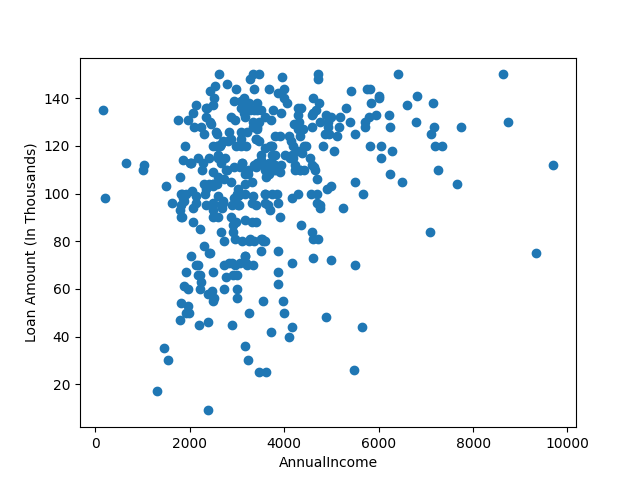
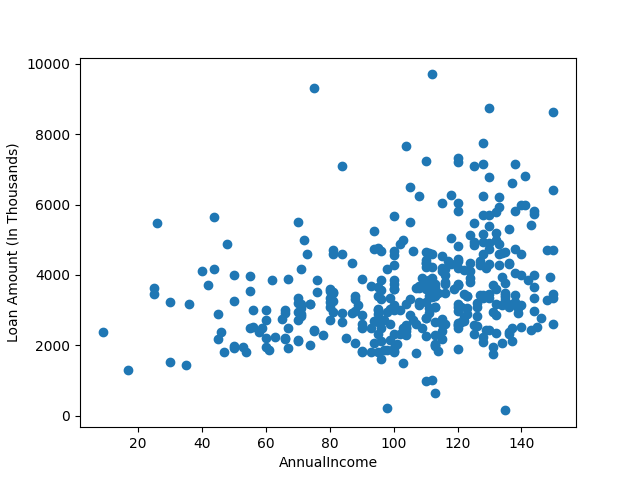
kmeans function

diff --git a/kmc_loans_cluster.py b/kmc_loans_cluster.py
@@ -2,7 +2,10 @@ import pandas
 import numpy
 # import random
 import matplotlib.pyplot as pyplot
+
 from sklearn.cluster import KMeans
+from sklearn.metrics import silhouette_score
+
 
 data = pandas.read_csv('clustering.csv')
 print(data.head())
@@ -13,19 +16,38 @@ print(data.columns)
 subset = data[["LoanAmount","ApplicantIncome"]]
 subset = subset.values
 
-# DATA VISUALIZATION:
-pyplot.scatter(subset["ApplicantIncome"],subset["LoanAmount"])
+# # DATA VISUALIZATION:
+pyplot.scatter(subset[:,0],subset[:,1])
 pyplot.xlabel('AnnualIncome')
 pyplot.ylabel('Loan Amount (In Thousands)')
 pyplot.savefig("scatter_loanamount_applicantincome.png")
 pyplot.close()
 
+def run_kmeans(n, data):
+	machine = KMeans(n_clusters = n) # Constructing the machine
+	machine.fit(subset) # fitting the data
+	results = machine.predict(subset) # predicting
 
-machine = KMeans(n_clusters = 2) # Constructing the machine
-machine.fit(subset) # fitting the data
-results = machine.predict(subset) # predicting
+	centroids = machine.cluster_centers_
+	ssd = machine.inertia_ #sum of square deviations
+	
+	silhouette = 0
+	if n>1:
+		silhouette = silhouette_score(data, machine.labels_, metric = 'euclidean')
 
-centroids = machine.cluster_centers_
+	pyplot.scatter(data[:,0], data[:,1], c = results) # row, column (all rows, first column)
+	pyplot.scatter(centroids[:,0], centroids[:,1], c='red', marker= "*", s=200)
+	pyplot.savefig("scatterplot_colors_"+ str(n) + ".png") # no need for this if using Jupyter Notebook
+	pyplot.close()
+
+	return ssd, silhouette
+
+
+result = [run_kmeans(i + 1, data) for i in range (10)]
+print(result)
+
+result_diff = [result[i-1] - x for i,x in enumerate(results)]
+print(result_diff)
 
 # Visualization of results: 
 # Scatterplot (x, y)
@@ -34,3 +56,14 @@ pyplot.scatter(centroids[:,0], centroids[:,1], c='red', marker= "*", s=200)
 pyplot.savefig("scatterplot_la_colors.png")
 pyplot.close()
 
+pyplot.plot(range(2,8), silhouette_result)
+pyplot.savefig("silhouette.png")
+pyplot.close()
+
+print("\nssd: \n", ssd_result)
+print("\nssd differences: \n", ssd_result_diff)
+
+
+print("\nsilhouette scores: \n", silhouette_result)
+print("\nmax silhouette scores: \n", max(silhouette_result))
+print("\nnumber of cluster with max silhouette scores: \n", silhouette_result.index(max(silhouette_result))+2)
